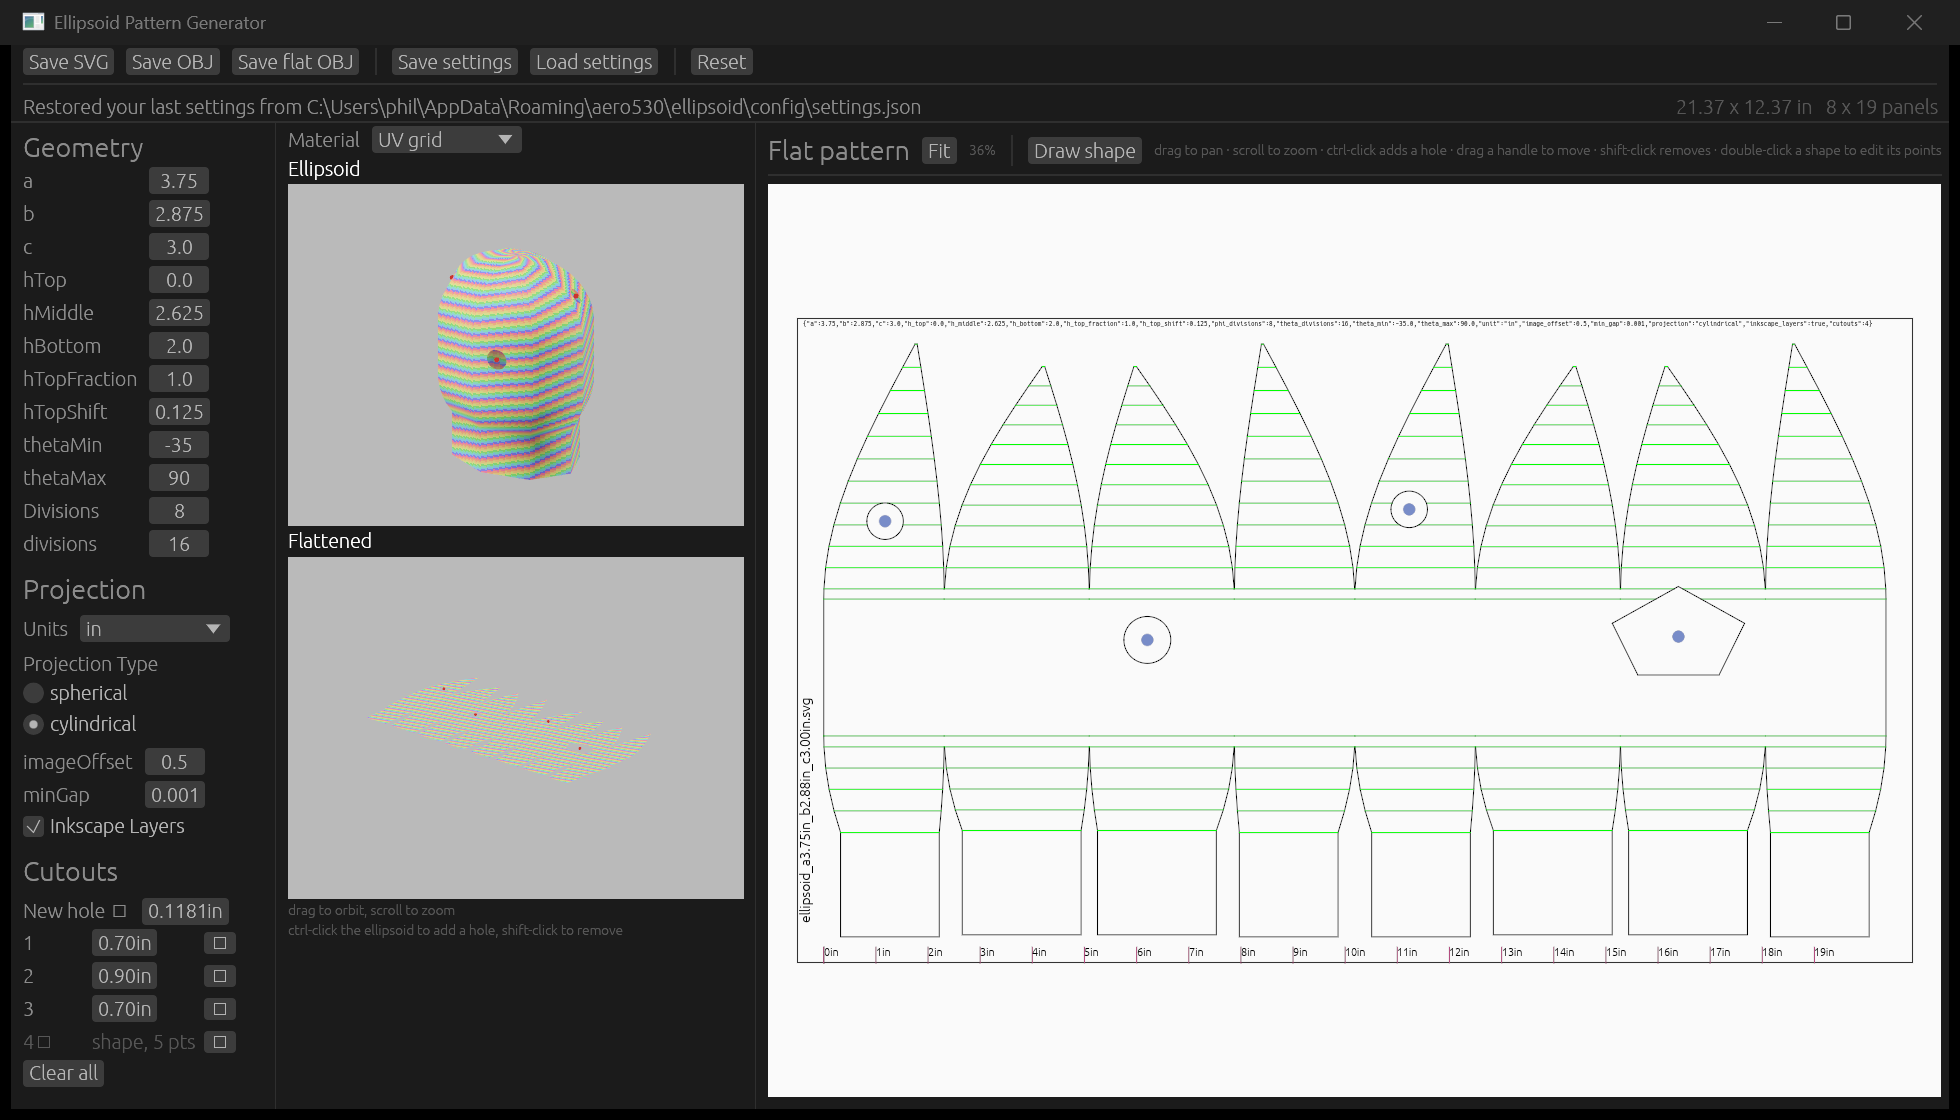
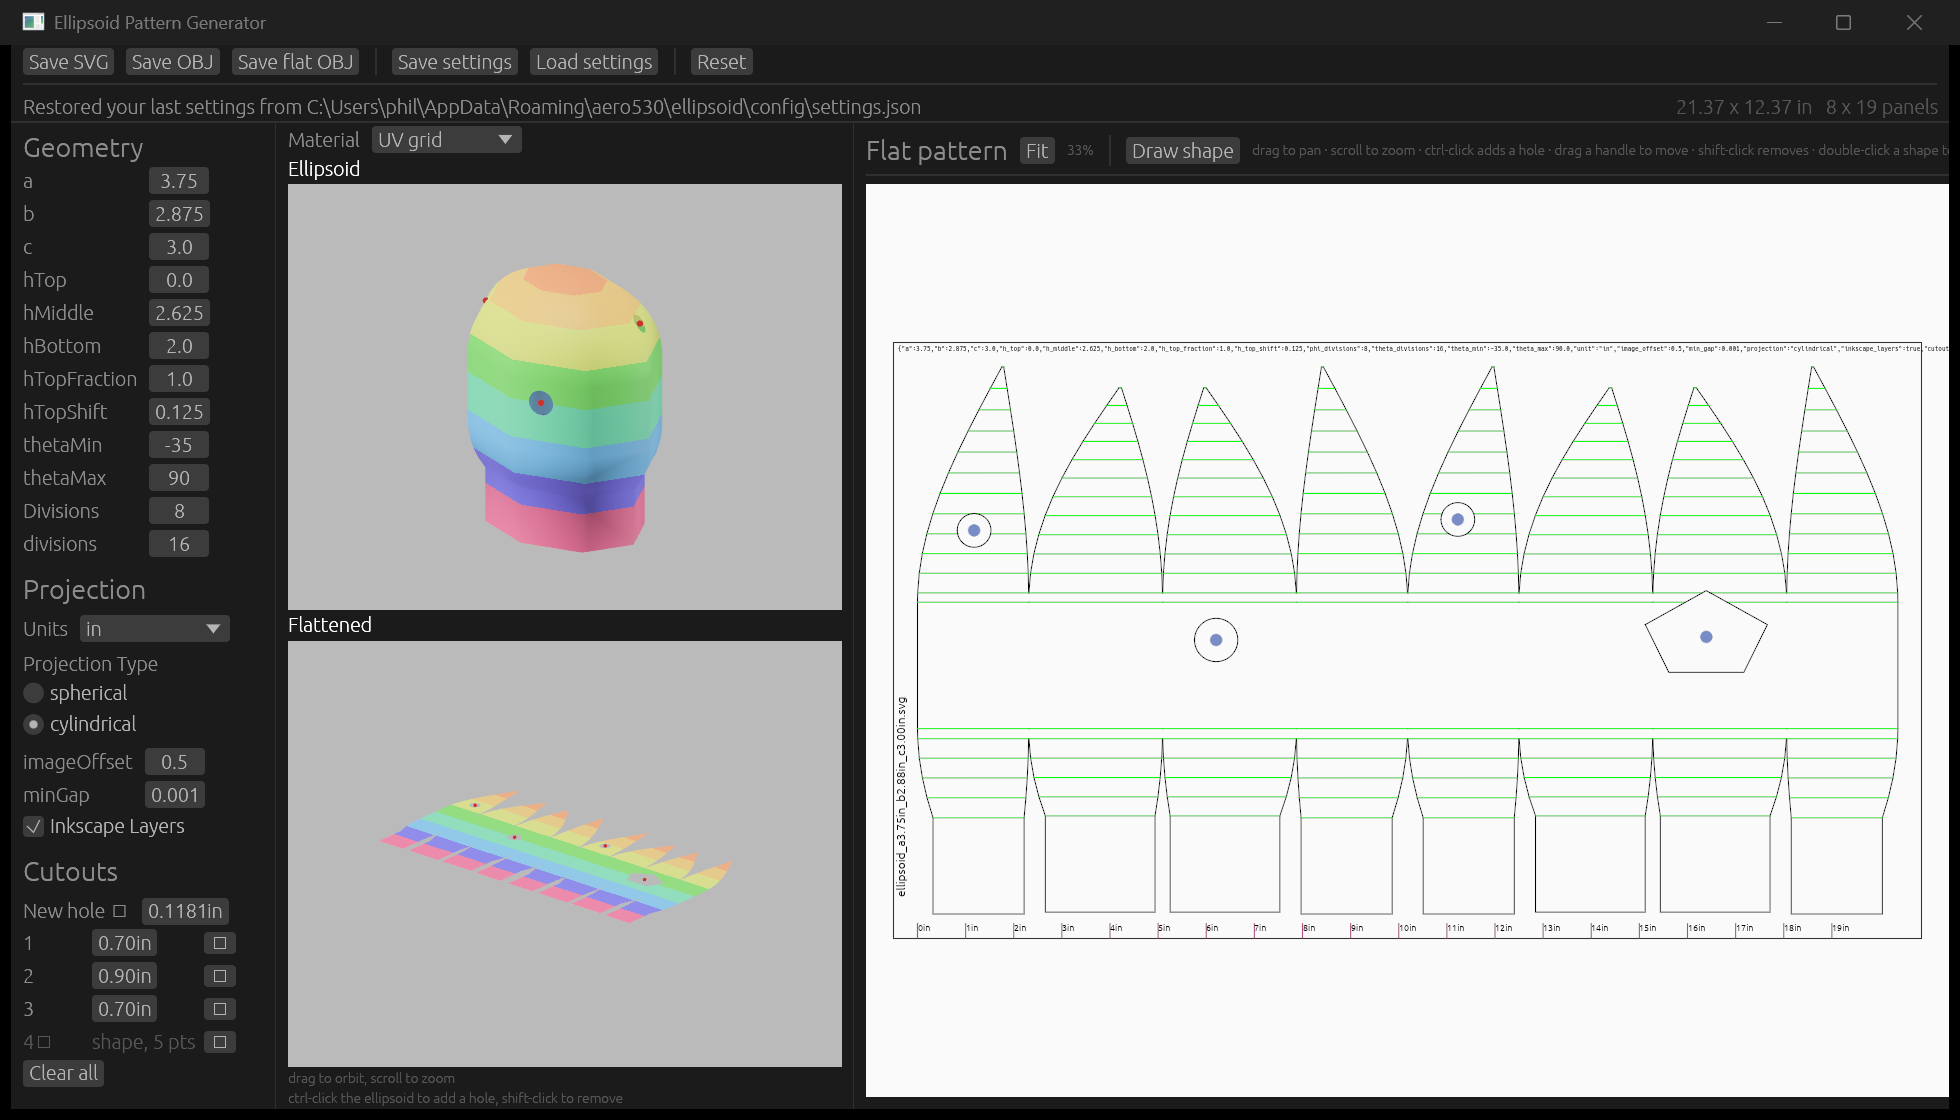
linux ci work

diff --git a/crates/ellipsoid-cli/tests/cli.rs b/crates/ellipsoid-cli/tests/cli.rs
@@ -10,10 +10,15 @@
 //! ```text
 //! UPDATE_SNAPSHOTS=1 cargo test -p ellipsoid-cli
 //! ```
+//!
+//! The SVG is compared byte for byte — it is written at fixed precision, so it
+//! is stable everywhere. OBJ is compared as parsed numbers; see
+//! [`assert_obj_snapshot`].
 
 use std::path::{Path, PathBuf};
 use std::process::{Command, Output};
 
+use ellipsoid_core::obj::parse_obj;
 use ellipsoid_core::{EllipsoidInput, compute_flat_geometry, compute_geometry, geometry_to_obj};
 use ellipsoid_pattern::{SvgOptions, build_scene, to_svg};
 
@@ -51,21 +56,29 @@ fn snapshot_dir() -> PathBuf {
         .join("snapshots")
 }
 
-fn assert_snapshot(name: &str, actual: &str) {
+/// The stored snapshot, or `None` when regenerating — in which case `actual`
+/// has just been written in its place and there is nothing to compare against.
+fn stored_snapshot(name: &str, actual: &str) -> Option<String> {
     let path = snapshot_dir().join(name);
 
     if std::env::var_os("UPDATE_SNAPSHOTS").is_some() {
         std::fs::create_dir_all(snapshot_dir()).expect("create snapshot dir");
         std::fs::write(&path, actual).unwrap_or_else(|e| panic!("writing {path:?}: {e}"));
-        return;
+        return None;
     }
 
-    let expected = std::fs::read_to_string(&path).unwrap_or_else(|e| {
+    Some(std::fs::read_to_string(&path).unwrap_or_else(|e| {
         panic!(
             "missing snapshot {path:?} ({e}).\n\
              Create it with: UPDATE_SNAPSHOTS=1 cargo test -p ellipsoid-cli"
         )
-    });
+    }))
+}
+
+fn assert_snapshot(name: &str, actual: &str) {
+    let Some(expected) = stored_snapshot(name, actual) else {
+        return;
+    };
 
     let (expected, actual) = (normalize(&expected), normalize(actual));
     if expected != actual {
@@ -87,6 +100,68 @@ fn assert_snapshot(name: &str, actual: &str) {
                 actual.lines().count()
             ),
         };
+        panic!(
+            "snapshot {name} does not match; {detail}\n\
+             If this change is intended: UPDATE_SNAPSHOTS=1 cargo test -p ellipsoid-cli"
+        );
+    }
+}
+
+/// A snapshot is this implementation's own output, so it should agree to the
+/// bit — but OBJ vertices are written at full `f64` precision, and the last
+/// place or two of a flattened one depends on the platform's libm. One set of
+/// snapshots is checked against both Linux and Windows in CI, so a byte
+/// comparison cannot pass on both at once. Same reasoning, and same tolerance,
+/// as the golden harness in `ellipsoid-core/tests/snapshots.rs`.
+const OBJ_TOL: f64 = 1e-12;
+
+fn close(a: f64, b: f64) -> bool {
+    let scale = a.abs().max(b.abs()).max(1.0);
+    (a - b).abs() <= OBJ_TOL * scale
+}
+
+/// Compare an OBJ snapshot as parsed numbers: face topology and vertex count
+/// exactly, coordinates to [`OBJ_TOL`].
+///
+/// This is what `ellipsoid-core`'s golden files do, and what the note in
+/// `obj.rs` means by "tests compare parsed numbers, never text".
+fn assert_obj_snapshot(name: &str, actual: &str) {
+    let Some(expected) = stored_snapshot(name, actual) else {
+        return;
+    };
+
+    let (want_vertices, want_faces) = parse_obj(&expected);
+    let (got_vertices, got_faces) = parse_obj(actual);
+
+    // Point at the first difference rather than dumping both meshes.
+    let detail = if got_faces != want_faces {
+        Some("face topology differs".to_string())
+    } else if got_vertices.len() != want_vertices.len() {
+        Some(format!(
+            "vertex count: expected {}, got {}",
+            want_vertices.len(),
+            got_vertices.len()
+        ))
+    } else {
+        got_vertices
+            .iter()
+            .zip(&want_vertices)
+            .enumerate()
+            .find_map(|(i, (got, want))| {
+                (0..3)
+                    .find(|&axis| !close(got[axis], want[axis]))
+                    .map(|axis| {
+                        format!(
+                            "vertex {} axis {axis}:\n  expected: {}\n  actual:   {}",
+                            i + 1,
+                            want[axis],
+                            got[axis]
+                        )
+                    })
+            })
+    };
+
+    if let Some(detail) = detail {
         panic!(
             "snapshot {name} does not match; {detail}\n\
              If this change is intended: UPDATE_SNAPSHOTS=1 cargo test -p ellipsoid-cli"
@@ -160,14 +235,14 @@ fn svg_snapshot() {
 fn obj_snapshot() {
     let mut args = SMALL.to_vec();
     args.extend_from_slice(&["--format", "obj"]);
-    assert_snapshot("small.obj", &stdout_of(&args));
+    assert_obj_snapshot("small.obj", &stdout_of(&args));
 }
 
 #[test]
 fn obj_flat_snapshot() {
     let mut args = SMALL.to_vec();
     args.extend_from_slice(&["--format", "obj-flat"]);
-    assert_snapshot("small-flat.obj", &stdout_of(&args));
+    assert_obj_snapshot("small-flat.obj", &stdout_of(&args));
 }
 
 // ---------------------------------------------------------------------------

diff --git a/crates/ellipsoid-app/build.rs b/crates/ellipsoid-app/build.rs
@@ -1,0 +1,45 @@
+//! Puts the application icon and version stamp into the Windows executable.
+//!
+//! Without this the binary carries no PE resources at all: Explorer, the
+//! taskbar and Alt-Tab all show the generic executable icon, and the file's
+//! Properties dialog is blank. The MSI's Start Menu shortcut has its own icon
+//! and looks right either way, which is exactly why this is easy to miss —
+//! everywhere *except* the Start Menu was unbranded.
+//!
+//! Windows targets only; everything else has nothing to do here.
+
+fn main() {
+    // The *target* OS, not the host: a Windows resource is meaningless in a
+    // Linux or wasm binary, and `cfg!(windows)` in a build script describes the
+    // machine doing the building.
+    if std::env::var("CARGO_CFG_TARGET_OS").as_deref() != Ok("windows") {
+        return;
+    }
+
+    // Rerun only when the icon changes; the default is to rerun on any file
+    // change in the crate, which would rebuild the app on every source edit.
+    let icon = std::path::Path::new(env!("CARGO_MANIFEST_DIR"))
+        .join("../../resources/icon.ico")
+        .canonicalize()
+        .expect("resources/icon.ico is part of the repository");
+    println!("cargo::rerun-if-changed={}", icon.display());
+    println!("cargo::rerun-if-changed=build.rs");
+
+    #[cfg(windows)]
+    {
+        let mut resource = winresource::WindowsResource::new();
+        resource.set_icon(icon.to_str().expect("repository path is UTF-8"));
+        // FileVersion and ProductVersion come from CARGO_PKG_VERSION already.
+        resource.set("ProductName", "Ellipsoid Pattern Generator");
+        resource.set("FileDescription", "Generate cut patterns for ellipsoid shapes");
+        // Matches `Manufacturer` in wix/main.wxs, so the Properties dialog and
+        // the installer's Programs-and-Features entry agree.
+        resource.set("CompanyName", "P. Spindler");
+        // Deliberately loud: a release that silently ships an unbranded binary
+        // is the failure this file exists to prevent. `rc.exe` ships with the
+        // Windows SDK, which an MSVC toolchain already needs for `link.exe`.
+        resource
+            .compile()
+            .expect("embedding the Windows icon and version resource");
+    }
+}

diff --git a/CHANGELOG.md b/CHANGELOG.md
@@ -1,0 +1,55 @@
+# Changelog
+
+## 2.0.0
+
+Rewritten in Rust. One source tree now builds the desktop app, the web demo and
+a headless CLI; the Electron/React/paper.js/three.js implementation is gone.
+
+### Added
+
+- **Command-line tool.** `ellipsoid` generates SVG patterns and OBJ meshes
+  without a GUI, reads and writes the same settings JSON as the app, and takes
+  every parameter as a flag.
+- **Cutouts.** Round holes and free-form shapes, placed by picking on the 3D
+  surface or drawn directly on the pattern, then dragged, reshaped or removed.
+  They are subtracted from the pattern and from both 3D views. A cutout crossing
+  a seam opens that edge, so the two panels form the shape once joined.
+- **Two 3D views**, the ellipsoid and the flattened panels, each rendered to a
+  texture in its own pane. A **Material** selector switches them between plain
+  colour and a UV grid that lands identically on both, so a point on the shell
+  can be found on the pattern by eye.
+- **Settings persistence.** Settings are remembered between sessions and can be
+  saved to and loaded from JSON.
+- **Web demo**, the same app compiled to WebAssembly.
+- Installers for Windows, macOS and Linux, and prebuilt archives.
+
+### Fixed
+
+Four defects inherited from the JavaScript, each with a test that pins the
+change. `RUST_CONVERSION_PLAN.md` §8 records all of them in detail.
+
+- **`thetaMax` was computed from `thetaMin`** (§8.1). It fed the fold decisions
+  in both projections, so a partially open top — `0 < thetaMax < 90` — folded the
+  `hTop` extension into the panel instead of out beyond it. 11 of 63 test cases
+  changed.
+- **The spherical cut outline was mirrored** against its own guide lines (§8.7),
+  placing them on the wrong side of the outline they belong to.
+- **Three or four vertical divisions produced a broken cylindrical layout**
+  (§8.8). The unwrap used the acute angle between panels, which is the right one
+  only from five divisions up; at three, one panel came out with no width at all
+  and the third folded back over the first. Adding a hole to such a pattern also
+  hung the app.
+- **A scaled or shifted top extension was drawn short** (§8.9) — up to 24% along
+  one panel edge — because two of its folds were assumed rather than measured.
+
+### Changed
+
+- Geometry is computed in `f64` throughout.
+- Cutout positions are stored as surface coordinates measured by arc length, so
+  they stay put when the division counts change.
+- Units are written to settings files as `in`, `mm` and `cm`, matching the UI.
+  Files written by earlier versions still load.
+
+## 1.0.0
+
+The original Electron application. See the `js-final` tag for its last state.
